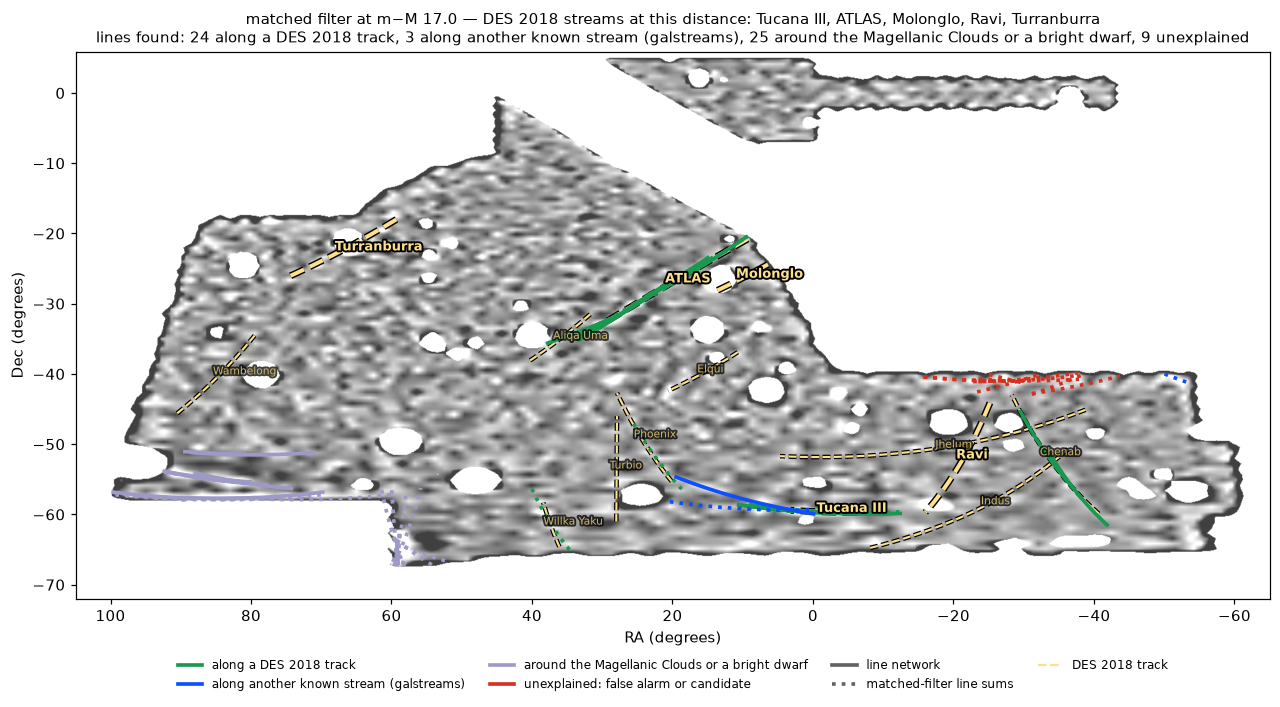
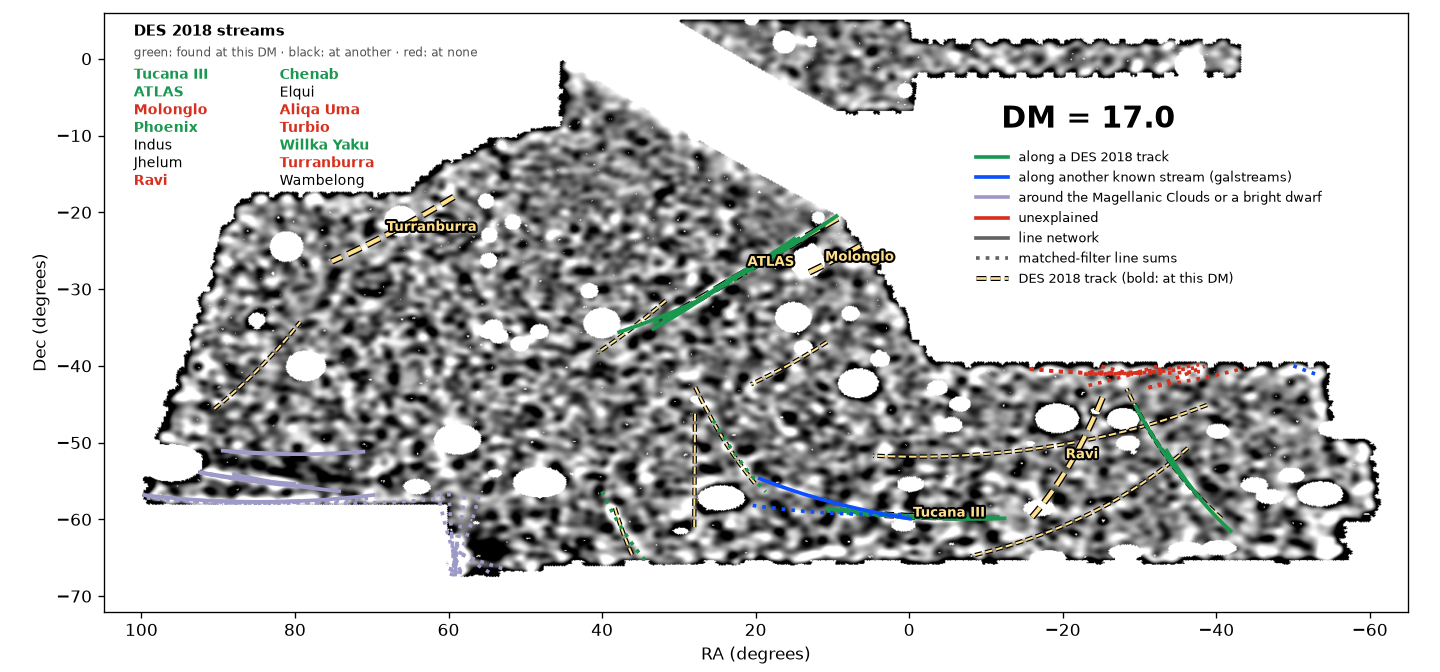
Summary GIF: the distance inside the map, the DES 2018 streams listed by whether they are found, a smoothed map
The distance as a fixed 'DM = ...' label inside the plot instead of a title; the fourteen DES 2018 streams listed in
an empty corner, green when a line runs along the track at that distance, black when only at another, red when at
none (Molonglo, Ravi, Aliqa Uma, Turbio, Turranburra); a compact legend inside the plot; the matched-filter contrast
smoothed with a 0.4-degree Gaussian on a 0.1-degree grid, normalized by the valid sky, instead of 0.9-degree
HEALPix pixels.

diff --git a/scripts/experiments/line_model/run.py b/scripts/experiments/line_model/run.py
@@ -4223,12 +4223,13 @@ def des2018_sky_lines(config="hough/band2s5 residual x4", mask_objects="tight"):
 def des2018_gif(config="hough/band2s5 residual x4", mask_objects="tight"):
     """des2018_sky.gif: the matched filter over the DES footprint, one frame
     per queried distance -- the counts over their smooth local background,
-    minus one, averaged over nside-64 pixels (0.9 degrees) on the search's
-    valid sky and interpolated between them -- with the sky
-    search's lines found at that distance (`des2018_sky_lines`), coloured by
-    what they lie along (solid: the line network's; dotted: the matched
-    filter's line sums), and the fourteen DES 2018 tracks (dashed; bold at
-    the queried distance nearest their own)."""
+    minus one, smoothed with a 0.4-degree Gaussian on the search's valid sky
+    -- with the sky search's lines found at that distance
+    (`des2018_sky_lines`), coloured by what they lie along (solid: the line
+    network's; dotted: the matched filter's line sums), the fourteen DES 2018
+    tracks (dashed; bold at the queried distance nearest their own), and
+    their names: green, a line along the track at this distance; black, at
+    another distance only; red, at none."""
     import healpy as hp
     import matplotlib
 
@@ -4238,6 +4239,7 @@ def des2018_gif(config="hough/band2s5 residual x4", mask_objects="tight"):
     from matplotlib import patheffects
     from matplotlib.animation import FuncAnimation, PillowWriter
     from matplotlib.lines import Line2D
+    from scipy import ndimage
 
     from streamgoggles.objects_overlap import des2018_arc
 
@@ -4253,23 +4255,26 @@ def des2018_gif(config="hough/band2s5 residual x4", mask_objects="tight"):
     )
     queries = list(sp.QUERY_GRID)
     smooth = smooth_backgrounds(background, queries, valid)
-    ra_axis = np.arange(-65.0, 105.0, 0.1)
-    dec_axis = np.arange(-72.0, 6.0, 0.1)
+    # the map: projected on a 0.1-degree RA, Dec grid, then a Gaussian of
+    # 0.4 degrees on the sky (wider in RA by 1 / cos(dec), at the footprint's
+    # mean declination), normalized by the valid sky it covers
+    step = 0.1
+    ra_axis = np.arange(-65.0, 105.0, step)
+    dec_axis = np.arange(-72.0, 6.0, step)
     grid_ra, grid_dec = np.meshgrid(ra_axis, dec_axis)
-    coarse = 64
-    on_sky = hp.get_interp_val(
-        hp.ud_grade(valid.astype(float), coarse), grid_ra % 360, grid_dec, lonlat=True
-    )
+    grid_pixels = hp.ang2pix(nside, grid_ra % 360, grid_dec, lonlat=True)
+    on_sky = valid[grid_pixels].astype(float)
+    sigma = (0.4 / step, 0.4 / step / np.cos(np.radians(40.0)))
+    weight = ndimage.gaussian_filter(on_sky, sigma)
     images = {}
     for q in queries:
-        counts = hp.ud_grade(
-            np.where(valid, background.raw_map_full_dict["good"][q], 0.0), coarse
+        counts = ndimage.gaussian_filter(
+            on_sky * background.raw_map_full_dict["good"][q][grid_pixels], sigma
         )
-        expected = hp.ud_grade(np.where(valid, smooth[q], 0.0), coarse)
-        contrast = counts / np.maximum(expected, 1e-9) - 1
+        expected = ndimage.gaussian_filter(on_sky * smooth[q][grid_pixels], sigma)
         images[q] = np.where(
-            on_sky > 0.5,
-            hp.get_interp_val(contrast, grid_ra % 360, grid_dec, lonlat=True),
+            (on_sky > 0) & (weight > 0.3),
+            counts / np.maximum(expected, 1e-9) - 1,
             np.nan,
         )
 
@@ -4281,7 +4286,17 @@ def des2018_gif(config="hough/band2s5 residual x4", mask_objects="tight"):
         name: min(queries, key=lambda q: abs(q - distance))
         for name, (_, _, distance, _) in sp.DES_STREAMS.items()
     }
-    fig, ax = plt.subplots(figsize=(14, 7))
+    found_at = {
+        name: {
+            q
+            for q, along in zip(lines["query"], lines["along"].fillna(""), strict=True)
+            if name in along.split("; ")
+        }
+        for name in sp.DES_STREAMS
+    }
+    outline = [patheffects.withStroke(linewidth=2.5, foreground="black")]
+    fig, ax = plt.subplots(figsize=(12, 5.6))
+    fig.subplots_adjust(left=0.06, right=0.99, top=0.98, bottom=0.09)
 
     def draw(k):
         q = queries[k]
@@ -4289,79 +4304,77 @@ def des2018_gif(config="hough/band2s5 residual x4", mask_objects="tight"):
         ax.imshow(
             images[q],
             origin="lower",
-            extent=(ra_axis[0], ra_axis[-1], dec_axis[0], dec_axis[-1]),
+            extent=(ra_axis[0], ra_axis[-1] + step, dec_axis[0], dec_axis[-1] + step),
             cmap="gray",
-            vmin=-0.1,
-            vmax=0.1,
-            alpha=0.75,
+            vmin=-0.08,
+            vmax=0.08,
             interpolation="bilinear",
         )
         for name in sp.DES_STREAMS:
             ra, dec = des2018_arc(name, n=200)
             here = nearest[name] == q
             track = ax.plot(wrap(ra), dec, ls="--", color="#fee08b",
-                            lw=2.6 if here else 1.4)[0]  # fmt: skip
+                            lw=2.4 if here else 1.2)[0]  # fmt: skip
             track.set_path_effects(
                 [
                     patheffects.withStroke(
-                        linewidth=4.5 if here else 3, foreground="black"
+                        linewidth=4 if here else 2.6, foreground="black"
                     )
                 ]
             )
-            middle = len(ra) // 2
-            label = ax.text(wrap(ra[middle]) + 1.0, dec[middle], name, color="#fee08b",
-                            fontsize=8.5 if here else 7, weight="bold" if here else "normal",
-                            alpha=1.0 if here else 0.75)  # fmt: skip
-            label.set_path_effects(
-                [patheffects.withStroke(linewidth=2.5, foreground="black")]
-            )
+            if here:
+                middle = len(ra) // 2
+                label = ax.text(wrap(ra[middle]) + 1.0, dec[middle], name,
+                                color="#fee08b", fontsize=8, weight="bold")  # fmt: skip
+                label.set_path_effects(outline)
         mine = lines[np.isclose(lines["query"], q)]
-        counts = {}
         for kind, (_, colour) in DES2018_LINE_CLASSES.items():
-            chosen = mine[mine["class"] == kind]
-            counts[kind] = len(chosen)
-            for row in chosen.itertuples():
+            for row in mine[mine["class"] == kind].itertuples():
                 ra, dec = _arc(row.ra1, row.dec1, row.ra2, row.dec2, 20)
-                ax.plot(wrap(ra), dec, color=colour, lw=2.4,
+                ax.plot(wrap(ra), dec, color=colour, lw=2.2,
                         ls="-" if row.scorer == "network" else ":")  # fmt: skip
+        # the distance, and the DES 2018 streams found here, elsewhere, nowhere
+        ax.text(-12, -6, f"DM = {q:.1f}", fontsize=18, weight="bold", va="top")
+        ax.text(101, 4.5, "DES 2018 streams", fontsize=9, weight="bold", va="top")
+        ax.text(101, 1.6, "green: found at this DM · black: at another · red: at none",
+                fontsize=7, color="#525252", va="top")  # fmt: skip
+        names = list(sp.DES_STREAMS)
+        for i, name in enumerate(names):
+            colour = (
+                "#1a9850"
+                if q in found_at[name]
+                else ("black" if found_at[name] else "#d7301f")
+            )
+            ax.text(
+                101 - 19 * (i // 7),
+                -1.2 - 2.3 * (i % 7), name, fontsize=8.5,
+                    color=colour, weight="bold" if colour != "black" else "normal",
+                    va="top")  # fmt: skip
+        handles = [
+            Line2D([], [], color=colour, lw=2.2, label=label.split(":")[0])
+            for label, colour in DES2018_LINE_CLASSES.values()
+        ]
+        handles += [
+            Line2D([], [], color="#636363", lw=2.2, label="line network"),
+            Line2D([], [], color="#636363", lw=2.2, ls=":", label="matched-filter line sums"),
+            Line2D([], [], color="#fee08b", lw=1.6, ls="--", label="DES 2018 track (bold: at this DM)",
+                   path_effects=[patheffects.withStroke(linewidth=3, foreground="black")]),
+        ]  # fmt: skip
+        ax.legend(handles=handles, loc="upper left", bbox_to_anchor=(0.66, 0.79),
+                  fontsize=7.5, frameon=False, handlelength=2.6)  # fmt: skip
         ax.set_xlim(ra_axis[-1], ra_axis[0])  # RA increasing to the left
         ax.set_ylim(dec_axis[0], dec_axis[-1])
         ax.set_xlabel("RA (degrees)")
         ax.set_ylabel("Dec (degrees)")
-        at = [n for n, d in nearest.items() if d == q]
-        ax.set_title(
-            f"matched filter at m−M {q:.1f}"
-            + (f" — DES 2018 streams at this distance: {', '.join(at)}" if at else "")
-            + "\nlines found: "
-            + ", ".join(f"{counts[k]} {DES2018_LINE_CLASSES[k][0].split(':')[0]}" for k in DES2018_LINE_CLASSES),
-            fontsize=10,
-        )  # fmt: skip
-        handles = [
-            Line2D([], [], color=colour, lw=2.4, label=label)
-            for label, colour in DES2018_LINE_CLASSES.values()
-        ]
-        handles += [
-            Line2D([], [], color="#636363", lw=2.4, label="line network"),
-            Line2D([], [], color="#636363", lw=2.4, ls=":", label="matched-filter line sums"),
-            Line2D([], [], color="#fee08b", lw=1.5, ls="--", label="DES 2018 track"),
-        ]  # fmt: skip
-        ax.legend(
-            handles=handles,
-            loc="upper center",
-            bbox_to_anchor=(0.5, -0.09),
-            ncol=4,
-            fontsize=8,
-            frameon=False,
-        )
         return []
 
     animation = FuncAnimation(fig, draw, frames=len(queries), blit=False)
     DOC_FIGURES.mkdir(parents=True, exist_ok=True)
     animation.save(
-        DOC_FIGURES / "des2018_sky.gif", writer=PillowWriter(fps=0.8), dpi=80
+        DOC_FIGURES / "des2018_sky.gif", writer=PillowWriter(fps=0.8), dpi=100
     )
     draw(queries.index(17.0))
-    fig.savefig(DOC_FIGURES / "des2018_sky_17.png", dpi=110, bbox_inches="tight")
+    fig.savefig(DOC_FIGURES / "des2018_sky_17.png", dpi=120)
     plt.close(fig)
     return lines
 

diff --git a/docs/source/experiments/line_model/summary.md b/docs/source/experiments/line_model/summary.md
@@ -77,11 +77,13 @@ across it ({doc}`../real_des/des2018_reproduction`).*
 ```
 
 *The matched filter over the DES footprint, one frame per queried distance
-(m−M 15 to 19): its counts over their smooth local background, averaged over
-0.9° and shown −10% to +10%. Dashed yellow: the DES 2018 tracks, bold at their
-own distance. Lines: what the sky search reports at that distance with both
-searches at half their rate (solid, the line network; dotted, the matched
-filter's line sums), coloured by what they lie along. `run.py`,
+(DM = m−M, 15 to 19): its counts over their smooth local background,
+smoothed with a 0.4° Gaussian and shown −8% to +8%. Dashed yellow: the DES
+2018 tracks, bold and named at their own distance. Lines: what the sky search
+reports at that distance with both searches at half their rate (solid, the
+line network; dotted, the matched filter's line sums), coloured by what they
+lie along. Top left, the DES 2018 streams: green, a line along the track at
+this distance; black, at another distance only; red, at none. `run.py`,
 `des2018_gif`; the frame at m−M 17 alone: `des2018_sky_17.png`.*
 
 The search reports 556 lines over the nine distances — each stream, each
